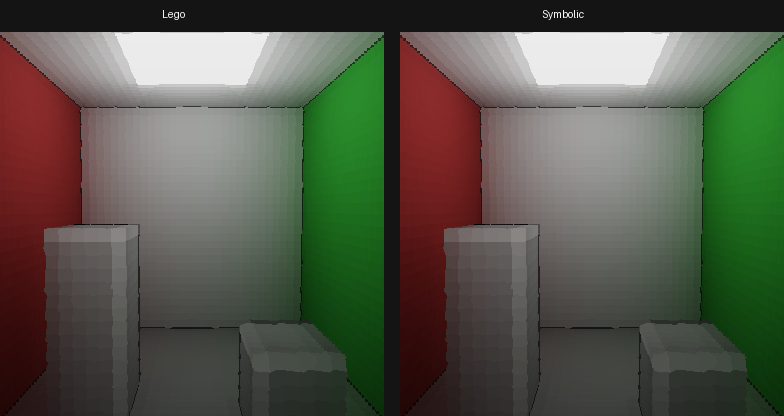
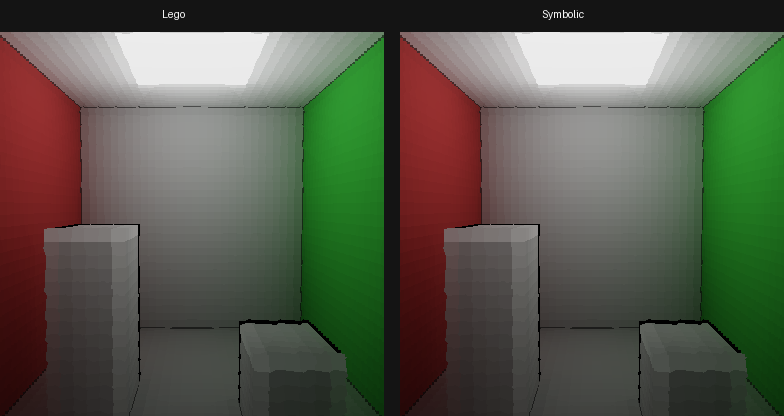
Surface-aware SH render: bypass order-1 step-function aliasing
The black silhouette outlines on SOLID surfaces were the SH order-1
approximation of a hemispherical step function (constant Lambertian
radiance V in the front hemisphere, 0 behind). Order 1 evaluates that
step as V·(1/2 + (3/4)·(n·d)) — peaks at 5V/4 head-on, drops to V/2 at
grazing angles, goes negative past the equator (clamped to 0). The dim
equator + clamped lower-hemisphere is the dark outline.

Fix: at SOLID hits, recover the true constant Lambertian radiance
directly from the SH state as V = c_0 / sqrt(pi), then gate with
back · n > 0 to mask the back-of-surface region. LIGHT cells still use
SH evaluation since their cosine-weighted emission shape is closer to
order-1 SH's natural fit.

Same Lego, same propagation, same byte equivalence. Rendering only.

diff --git a/cornell_3d_sh.py b/cornell_3d_sh.py
@@ -277,7 +277,7 @@ def sh_evaluate_4(coefs: np.ndarray, d: np.ndarray) -> np.ndarray:
     return np.maximum(rad, 0.0)
 
 
-def render_perspective(materials_np, outgoing_np, view_W=384, view_H=384,
+def render_perspective(materials_np, outgoing_np, normals_np, view_W=384, view_H=384,
                        cam_offset_z: float = -0.6, cam_offset_y: float = 0.05,
                        fov_deg: float = 55.0, max_march: int = 256):
     W, H, D = materials_np.shape
@@ -326,8 +326,37 @@ def render_perspective(materials_np, outgoing_np, view_W=384, view_H=384,
                 cell_sh = outgoing_np[
                     ix_safe[hit_idx], iy_safe[hit_idx], iz_safe[hit_idx]
                 ]                                          # (n_hit, 4, 3)
+                cell_n = normals_np[
+                    ix_safe[hit_idx], iy_safe[hit_idx], iz_safe[hit_idx]
+                ]                                          # (n_hit, 3)
                 back = -ray_dir[hit_idx]                   # (n_hit, 3)
-                img[hit_idx] = sh_evaluate_4(cell_sh, back)
+
+                # SOLID/LIGHT split: SOLID is Lambertian (constant radiance
+                # in the hemisphere of n). Recover that constant directly
+                # as c_0/sqrt(pi) instead of evaluating the order-1 SH,
+                # which drops to half at the equator and creates a dark
+                # silhouette outline. Gate by back·n > 0 so we only see
+                # the front side of the surface.
+                hit_mat = mat[hit_idx]
+                is_light_hit = (hit_mat == LIGHT)
+
+                # Lambertian constant (front-hemisphere)
+                lambertian_V = cell_sh[:, 0, :] / SQRT_PI  # (n_hit, 3)
+                front_dot = (back * cell_n).sum(axis=-1, keepdims=True)
+                # Where the cell has no normal (no empty neighbor), front_dot
+                # is 0; treat that as "always front" so isolated cells don't
+                # render black.
+                no_normal = (np.linalg.norm(cell_n, axis=-1, keepdims=True) < 1e-6)
+                front_visible = (front_dot > 0) | no_normal      # (n_hit, 1)
+                solid_radiance = np.where(front_visible, lambertian_V, 0.0)
+
+                # LIGHT: SH evaluation captures the cosine-weighted lamp
+                # emission well enough for our purposes.
+                light_radiance = sh_evaluate_4(cell_sh, back)
+
+                img[hit_idx] = np.where(
+                    is_light_hit[:, None], light_radiance, solid_radiance
+                )
                 alive &= ~hit
 
         pos += ray_dir * step
@@ -401,8 +430,8 @@ def main():
 
     print("Rendering perspective view…")
     t0 = time.time()
-    img_lego = render_perspective(mat_np, out_lego, args.view_W, args.view_H)
-    img_sym  = render_perspective(mat_np, out_sym,  args.view_W, args.view_H)
+    img_lego = render_perspective(mat_np, out_lego, normals, args.view_W, args.view_H)
+    img_sym  = render_perspective(mat_np, out_sym,  normals, args.view_W, args.view_H)
     print(f"  render time: {(time.time()-t0)*1000:.1f} ms")
     print()
 
